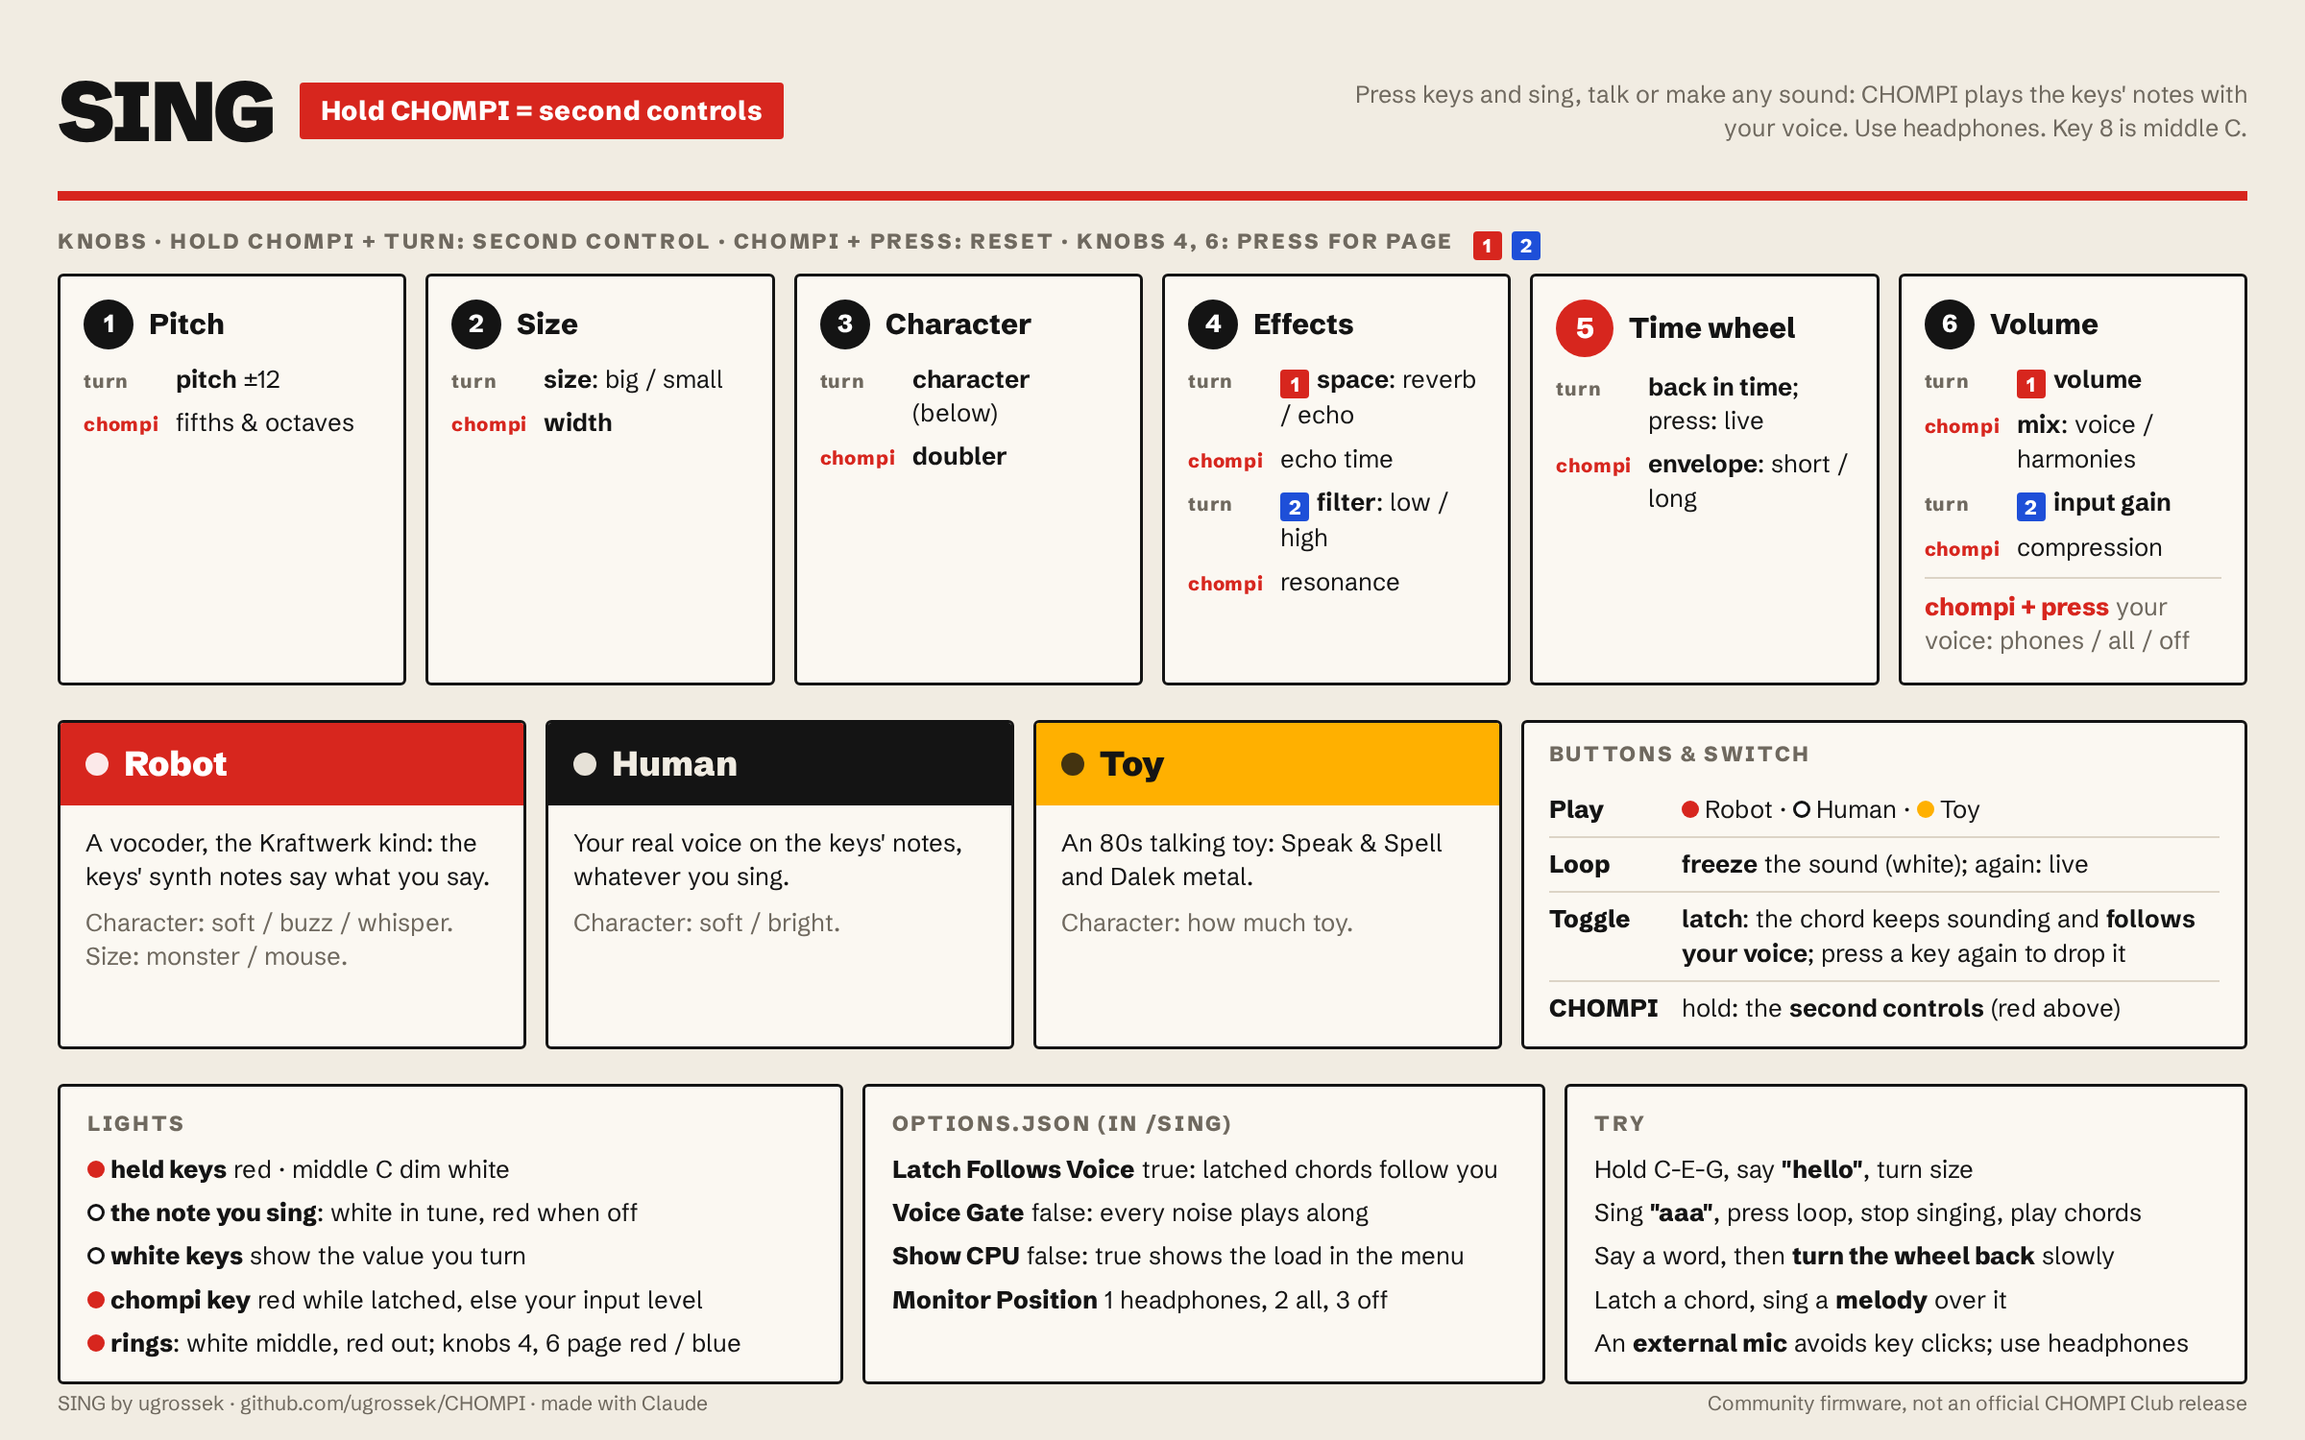
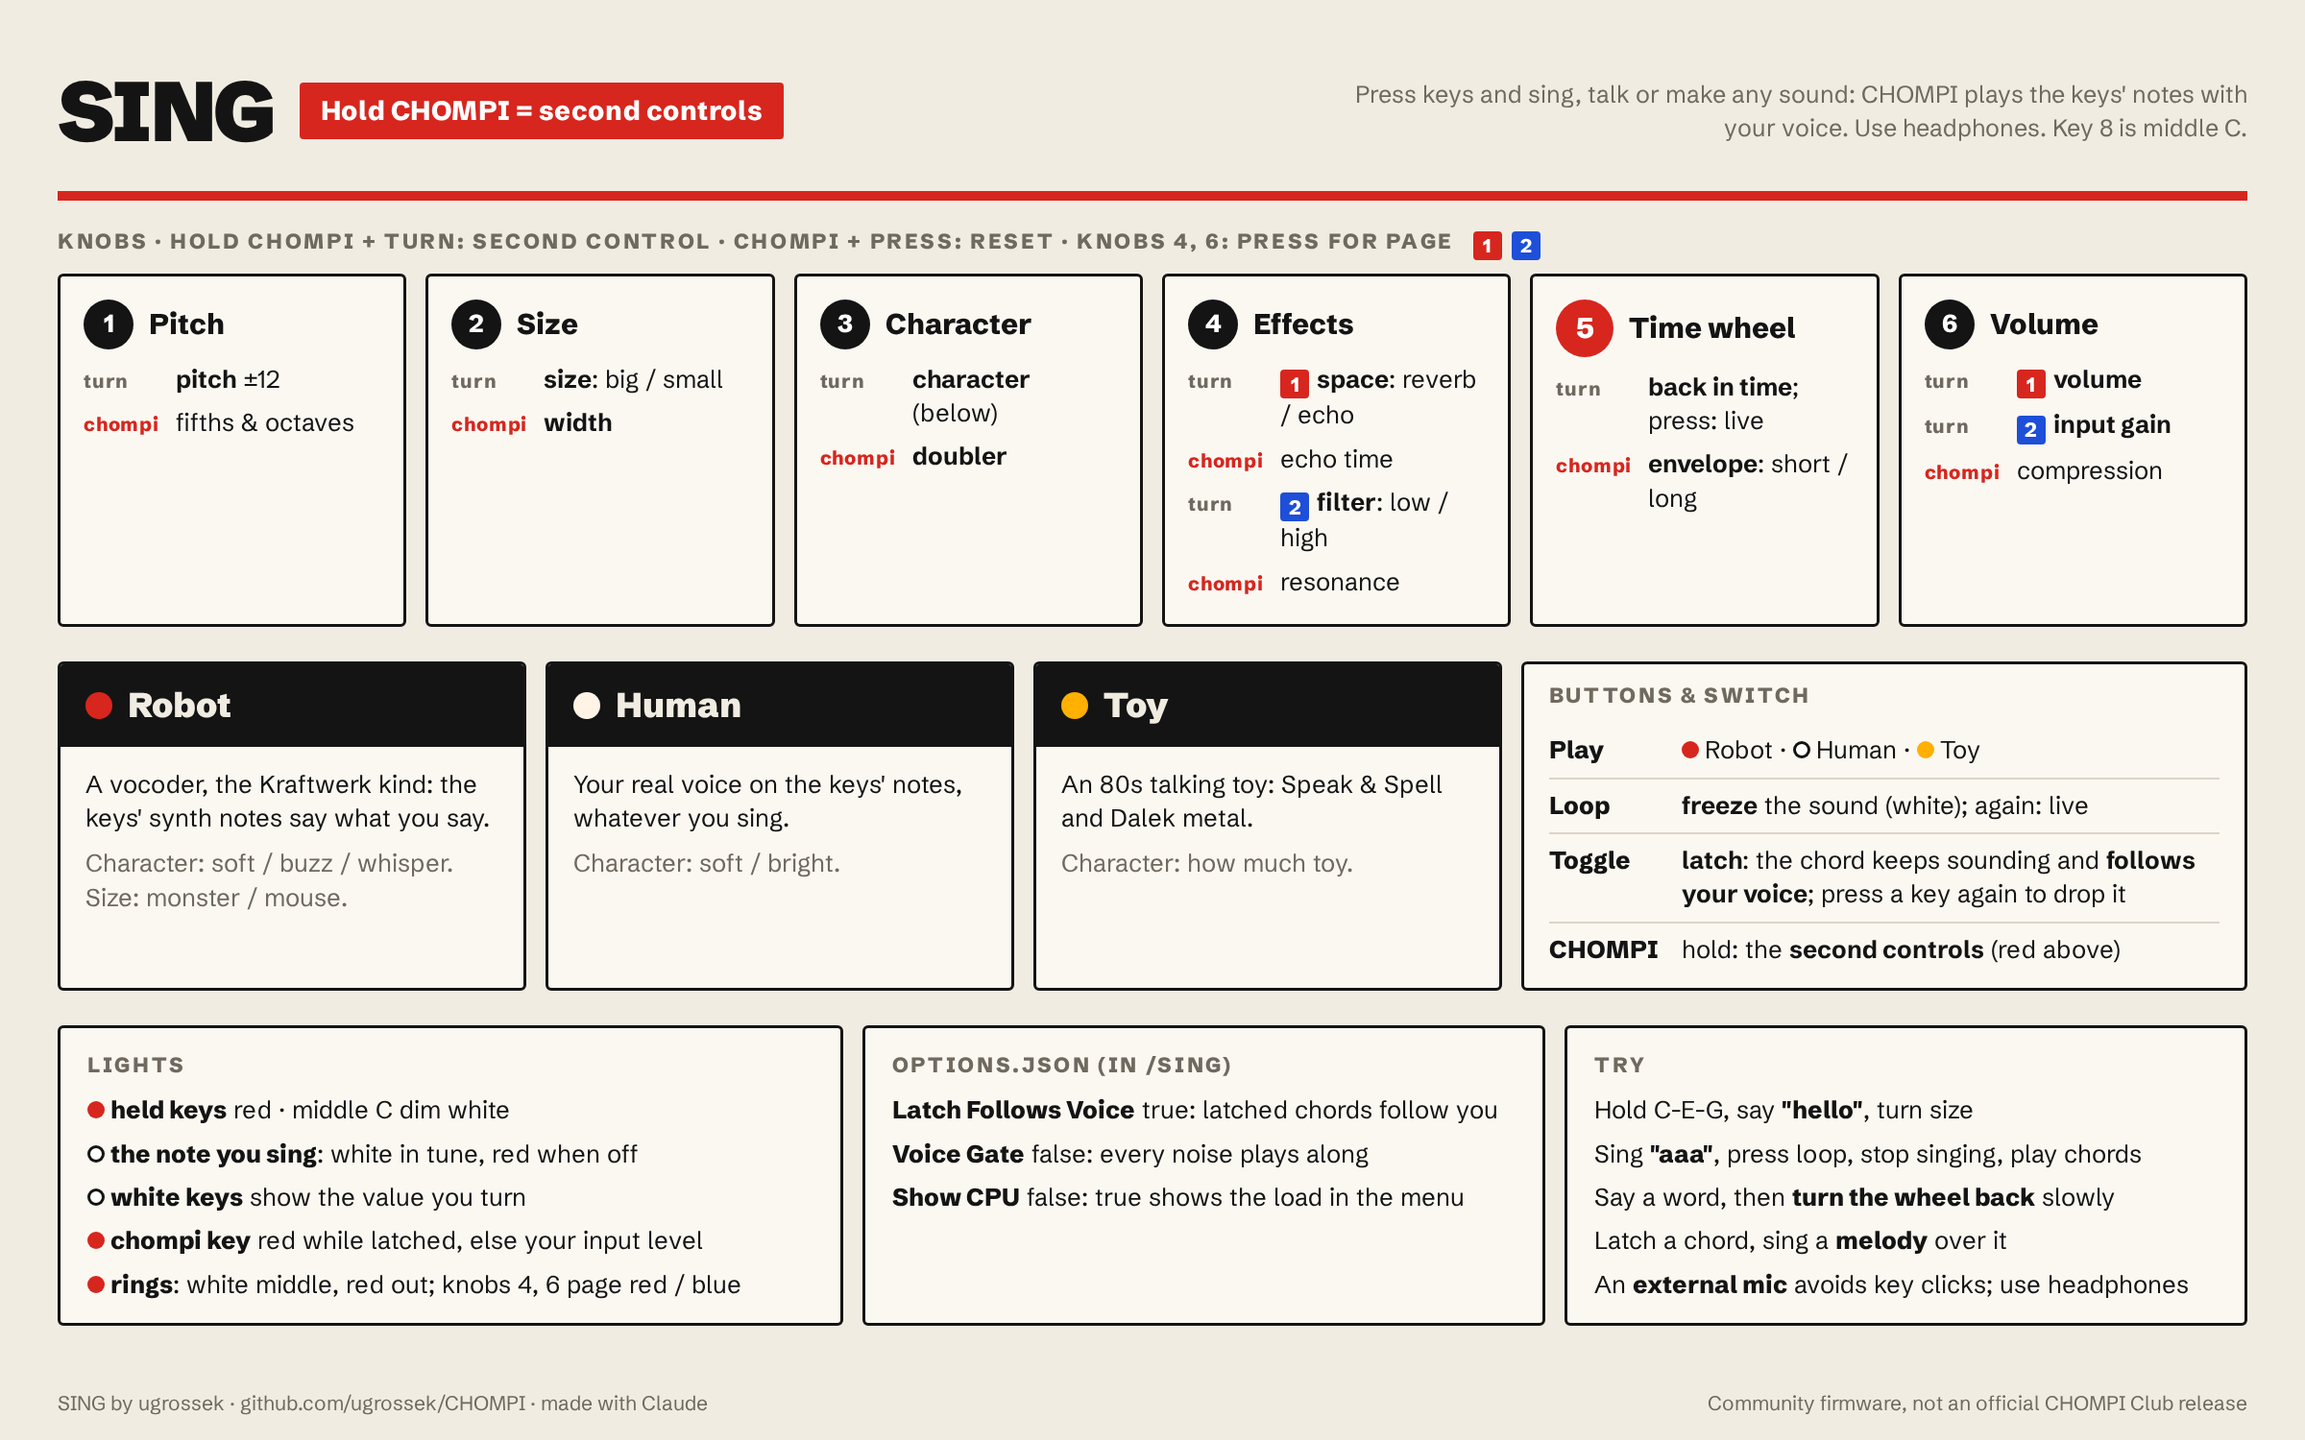
SING: effects start off, no dry voice, calmer character colours
- Space is always split (reverb left, off in the middle, echo right). An
  old card's "Split Delay": false made it start at half reverb and half
  echo; Split Delay and Monitor Position are now ignored in options.json.
- Only the harmonies: the dry voice is gone (dry gain 0; the monitor
  path still runs for the input meter on the chompi key). Mix and the
  monitor mode on knob 6 go with it.
- Cheat sheet: the three character cards get the same black header with
  the play button's colour as a dot; red, black and yellow side by side
  read as a flag.

Claude-Session: https://claude.ai/code/session_01874WzKbEgcN1VoWn2vqLJT

Changed region(s): [[0.0, 0.276, 0.9688, 0.9507]]

diff --git a/firmware/chompi-sing/docs/cheatsheet.html b/firmware/chompi-sing/docs/cheatsheet.html
@@ -79,14 +79,14 @@
 
   /* middle row */
   .mid { display: grid; grid-template-columns: 1fr 1fr 1fr 1.55fr; gap: 10px; margin-bottom: 18px; }
-  .char.toy .head { background: var(--yellow); color: var(--ink); }
-  .char.toy .head .dot { background: var(--ink); opacity: .8; }
   .char { overflow: hidden; }
   .char .head { padding: 9px 13px; font-weight: 900; font-size: 18px; color: #fff; display: flex; align-items: center; gap: 8px; }
-  .char .head .dot { width: 12px; height: 12px; border-radius: 50%; background: #fff; opacity: .9; }
-  .char.robot .head { background: var(--magenta); }
-  .char.human .head { background: var(--ink); color: var(--paper); }
-  .char.human .head .dot { background: var(--paper); opacity: .95; }
+  /* all three alike, black; only the dot has the play button's colour */
+  .char .head { background: var(--ink); color: var(--paper); }
+  .char .head .dot { width: 14px; height: 14px; border-radius: 50%; }
+  .char.robot .head .dot { background: var(--coral); }
+  .char.human .head .dot { background: #fff4e6; }
+  .char.toy .head .dot { background: var(--yellow); }
   .char .body { padding: 11px 13px 12px; }
   .char p { margin: 0 0 6px; }
   .char .try { color: var(--soft); }
@@ -158,11 +158,9 @@
       <div class="top"><span class="num">6</span><span class="name">Volume</span></div>
       <ul class="rows">
         <li><span class="k">turn</span><span><span class="pg" style="background:var(--coral)">1</span><b>volume</b></span></li>
-        <li><span class="k c">chompi</span><span><b>mix</b>: voice / harmonies</span></li>
         <li><span class="k">turn</span><span><span class="pg" style="background:var(--blue)">2</span><b>input gain</b></span></li>
         <li><span class="k c">chompi</span><span>compression</span></li>
       </ul>
-      <div class="menu-line"><span class="m">chompi + press</span> your voice: phones / all / off</div>
     </div>
   </section>
 
@@ -216,7 +214,6 @@
         <li><code>Latch Follows Voice</code> true: latched chords follow you</li>
         <li><code>Voice Gate</code> false: every noise plays along</li>
         <li><code>Show CPU</code> false: true shows the load in the menu</li>
-        <li><code>Monitor Position</code> 1 headphones, 2 all, 3 off</li>
       </ul>
     </div>
     <div class="card panel">

diff --git a/firmware/chompi-sing/code/src/OptionsManager.h b/firmware/chompi-sing/code/src/OptionsManager.h
@@ -17,8 +17,6 @@ class OptionsManager
   public:
     uint8_t midi_ch_in;     // 0..15
     uint8_t midi_ch_out;    // 0..15
-    uint8_t monitor_position; // a MonitorMode: 0 headphones, 1 all outputs, 3 off
-    bool    delay_split;    // knob 4: delay left, reverb right
     bool    latch_follows;  // latched chords follow the voice
     bool    voice_gate;     // harmonies only while there is sound
     bool    show_cpu;       // audio load on the white keys in the menu
@@ -28,8 +26,6 @@ class OptionsManager
     {
         midi_ch_in       = 0;
         midi_ch_out      = 0;
-        monitor_position = 0;
-        delay_split      = true;  // SING: space is reverb left, echo right
         latch_follows    = true;
         voice_gate       = false;
         show_cpu         = false;
@@ -74,10 +70,6 @@ class OptionsManager
         Entry(p, "Midi In Channel", num, true);
         sprintf(num, "%d", midi_ch_out + 1);
         Entry(p, "Midi Out Channel", num);
-        /* in the file: 1 headphones, 2 all outputs, 3 off */
-        sprintf(num, "%d", monitor_position == 3 ? 3 : monitor_position + 1);
-        Entry(p, "Monitor Position", num);
-        Entry(p, "Split Delay", delay_split ? "true" : "false");
         Entry(p, "Latch Follows Voice", latch_follows ? "true" : "false");
         Entry(p, "Voice Gate", voice_gate ? "true" : "false");
         Entry(p, "Show CPU", show_cpu ? "true" : "false");
@@ -128,12 +120,8 @@ class OptionsManager
                 midi_ch_in = n - 1;
             else if(strcmp(name, "Midi Out Channel") == 0 && n >= 1 && n <= 16)
                 midi_ch_out = n - 1;
-            else if(strcmp(name, "Monitor Position") == 0 && n >= 1 && n <= 3)
-                monitor_position = n == 3 ? 3 : n - 1;
             else if(!t && !f)
                 continue; // the rest are true / false
-            else if(strcmp(name, "Split Delay") == 0)
-                delay_split = t;
             else if(strcmp(name, "Latch Follows Voice") == 0)
                 latch_follows = t;
             else if(strcmp(name, "Voice Gate") == 0)
@@ -142,7 +130,8 @@ class OptionsManager
                 show_cpu = t;
             else if(strcmp(name, "Freeze Dump") == 0)
                 freeze_dump = t;
-            // anything else (TAPE's looper options in an old file): ignored
+            // anything else (TAPE's looper options, Monitor Position, Split
+            // Delay in an old file): ignored
         }
     }
 };

diff --git a/firmware/chompi-sing/code/src/DSPEngine.h b/firmware/chompi-sing/code/src/DSPEngine.h
@@ -276,7 +276,7 @@ namespace daisy
                 monitor[i] += sig;
                 monitor[size + i] += sig;
 
-                // SING: the mix knob turns the dry voice down (the meter keeps it)
+                // SING: the dry voice is off (the meter keeps it)
                 out[0][i] += sig * dry_gain_;
                 out[1][i] += sig * dry_gain_;
             }
@@ -525,22 +525,6 @@ namespace daisy
         /* SING: envelope, short and plucky .. slow and swelling (chompi + knob 5) */
         void SetEnvelope(float val) { harmonizer.SetEnvelope(val); }
 
-        /* SING: mix (chompi + knob 6, page 1): .5 your voice at full and the
-           harmonies at their usual 75%; left the harmonies fade out, right
-           your voice does, and the harmonies come up to full */
-        void SetMix(float m)
-        {
-            if (m < .5f)
-            {
-                dry_gain_ = 1.f;
-                harmonizer.SetLevel(.75f * m * 2.f);
-            }
-            else
-            {
-                dry_gain_ = 1.f - (m - .5f) * 2.f;
-                harmonizer.SetLevel(.75f + .25f * (m - .5f) * 2.f);
-            }
-        }
 
         void SetInputGain(float gain) 
         {
@@ -689,7 +673,9 @@ namespace daisy
         float reverb_time_, reverb_time_target_;
         float dly_amt_, dly_amt_target_;
         float saturate_amt_, saturate_amt_target_;
-        float dry_gain_ = 1.f; // SING: the mix knob's share of the dry voice
+        /* SING: no dry voice, only the harmonies. The monitor path still runs
+           (in headphones mode), so it feeds the input meter */
+        float dry_gain_ = 0.f;
         float cutoff_, cutoff_target_;
         float res_, res_target_;
         

diff --git a/firmware/chompi-sing/code/src/MenuPage.h b/firmware/chompi-sing/code/src/MenuPage.h
@@ -126,8 +126,7 @@ namespace chompi
                 }
                 else if(knob_page[5] == 0)
                 {
-                    // SING: mix, warm white in the middle, red towards voice or harmonies
-                    SingTransposeColour(enc_values[2][5], r, g, b);
+                    r = g = b = 0.f; // SING: no second control on volume
                 }
                 else
                 {
@@ -293,9 +292,7 @@ namespace chompi
                     break;
                 case 4: fx_->SetEnvelope(layer(4)); break; // envelope
                 case 5:
-                    if(page == 0) // mix: your voice <-> the harmonies
-                        fx_->SetMix(layer(5));
-                    else // compression
+                    if(page == 1) // compression
                     {
                         final_comp = fclamp(final_comp + inc, 0.f, 1.f);
                         fx_->SetFinalComp(final_comp);
@@ -363,12 +360,7 @@ namespace chompi
                 break;
 
             case static_cast<uint16_t>(Hardware::SwId::ENC_6_SW): // volume
-                if(rising)
-                {
-                    fx_->IncrementMonitorMode();
-                    input_toggled = true;
-                }
-            break;
+                break; // SING: no dry voice, so no monitor mode to choose
 
             case static_cast<uint16_t>(Hardware::SwId::ENC_3_SW): // magic wand
             {

diff --git a/firmware/chompi-sing/code/src/chompi_main.cpp b/firmware/chompi-sing/code/src/chompi_main.cpp
@@ -384,8 +384,10 @@ int main(void)
     options.Init();
 
     LedSetup();
+    /* SING: space is always split, reverb left, off in the middle, echo
+       right (an old card's "Split Delay": false had it start at 50% of both) */
     ui.Init(&hw, &engine,
-        options.midi_ch_in, options.midi_ch_out, options.delay_split);
+        options.midi_ch_in, options.midi_ch_out, true);
 
     hw.StartLowPriorityCallback(SDCallback, 1000);
     engine.cpu_meter.Init(hw.seed.AudioSampleRate(), hw.seed.AudioBlockSize());
@@ -395,7 +397,7 @@ int main(void)
 
 
     engine.Init(hw.seed.AudioSampleRate(), &reverb, &del_mem[0],
-                MonitorMode(options.monitor_position));
+                MonitorMode::HP); // SING: dry_gain_ 0, so this only feeds the input meter
     /* SING's switches from options.json, after Init, which resets them */
     engine.SetLatchFollows(options.latch_follows);
     engine.SetVoiceGate(options.voice_gate);

diff --git a/firmware/chompi-sing/docs/release-notes-sing2.md b/firmware/chompi-sing/docs/release-notes-sing2.md
@@ -8,12 +8,13 @@ SING turns CHOMPI into an instrument led by your voice. Press keys and sing, tal
 
 - **Three characters on the play button.** **Robot** (red): a vocoder, the Kraftwerk kind; the pitch you sing doesn't matter, and talking, whispering and noises all work. **Human** (warm white): your real voice, moved onto the keys' notes, whatever you sing. **Toy** (yellow): an 80s talking toy, Speak & Spell and Dalek metal.
 - **The keys play their own notes.** Press C-E-G, hear C-E-G. Key 8 is middle C.
-- **Simple controls:** one page per knob (two on the effects and volume knobs, as in TAPE), and every knob has a second control on chompi + turn. Pitch, size, character, space, time wheel, volume; width, doubler, echo time, filter, envelope, mix.
+- **Simple controls:** one page per knob (two on the effects and volume knobs, as in TAPE), and every knob has a second control on chompi + turn. Pitch, size, character, space, filter, time wheel, volume; width, doubler, echo time, resonance, envelope. Effects start off.
+- **Only the harmonies:** your own voice isn't mixed in.
 - **Freeze on the loop button:** hold the sound you're making and keep playing chords with it.
 - **Time wheel on the big wheel:** go back through the last 2 seconds, slowly or scratching.
 - **Latch follows your voice:** latch a chord and sing a melody, the chord moves with you.
 - **A tuner on the keys:** the note you sing lights up.
-- **Lights in red and warm white**, after Kraftwerk's *Die Mensch-Maschine*.
+- **Lights in red and warm white**, after Kraftwerk's *Die Mensch-Maschine*; the play button shows the character: red, white or yellow.
 - **Options** in `/SING/options.json`: Latch Follows Voice, Voice Gate, Show CPU.
 - The looper is gone (its buttons and wheel went to freeze, the characters and the time wheel).
 

diff --git a/firmware/chompi-sing/OPTIONS.md b/firmware/chompi-sing/OPTIONS.md
@@ -10,12 +10,14 @@ during play stalled the unit for seconds, so knobs always start from their defau
 |---|---|---|
 | Midi In Channel | 1–16 | channel for incoming notes (they play harmonies) and knob CCs |
 | Midi Out Channel | 1–16 | channel for outgoing key notes and knob CCs |
-| Monitor Position | 1–3 | where your own voice goes at power-on: 1 headphones, 2 all outputs, 3 off |
-| Split Delay | true/false | TAPE's split delay on the effects knob |
 | Latch Follows Voice | true/false | true: while latched, the chord follows your voice (key 8 = your note). false: latched notes stay put |
 | Voice Gate | true/false | true: harmonies only while there is a voice or a sound loud enough. false (default): every sound goes through, noises are part of the fun |
 | Show CPU | true/false | true: in the menu (chompi key held), the white keys show the audio load, for debugging |
 | Freeze Dump | true/false | diagnosis only: after a freeze in Human, writes the last 2.7 s of the voice to `freeze-audio.f32`, `freeze-pitch.f32` and `freeze-info.txt` in `/SING` (the unit pauses for a moment) |
+
+TAPE's **Monitor Position** and **Split Delay** in an old file are ignored: SING plays only the
+harmonies (no dry voice), and space is always reverb to the left, off in the middle, echo to the
+right.
 
 ## Candidates
 

diff --git a/firmware/chompi-sing/README.md b/firmware/chompi-sing/README.md
@@ -53,10 +53,11 @@ press them to switch. Every knob has a second control: **hold the chompi key and
 | **4**, page 1 (red) | **space**: reverb to the left, echo to the right, off in the middle | **echo time** | reset the effects |
 | **4**, page 2 (blue) | **filter**: low-pass to the left, high-pass to the right, off in the middle | **resonance** | reset the effects |
 | **5** | the big wheel: **time wheel** (above) | **envelope**: short and plucky ← → slow and swelling | |
-| **6**, page 1 (red) | **output volume** | **mix**: your voice ← → the harmonies | where your own voice goes: headphones / all outputs / off |
+| **6**, page 1 (red) | **output volume** | | |
 | **6**, page 2 (blue) | **input gain** | **compression** | |
 
-Size, character, pitch and mix start in the middle. **Character** means:
+Size, character and pitch start in the middle; all effects start off. You hear only the
+harmonies, not your own voice. **Character** means:
 
 - **Robot:** a soft sine to the left, the Kraftwerk buzz in the middle, noise (a whisper) to the
   right.
